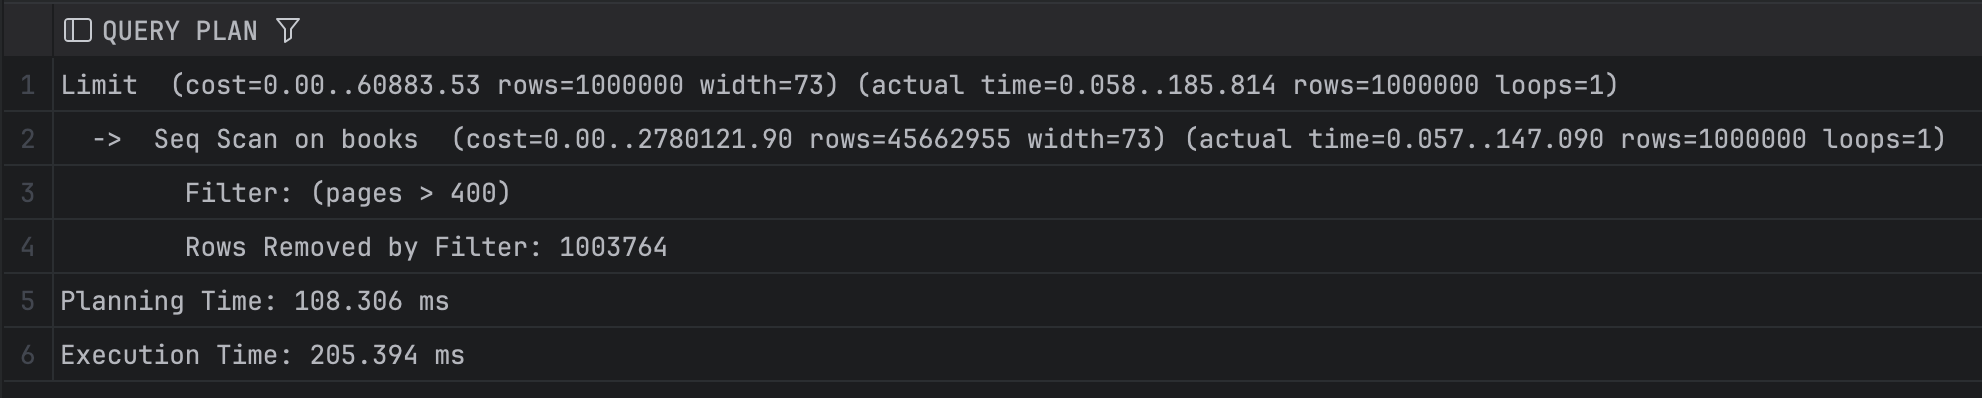
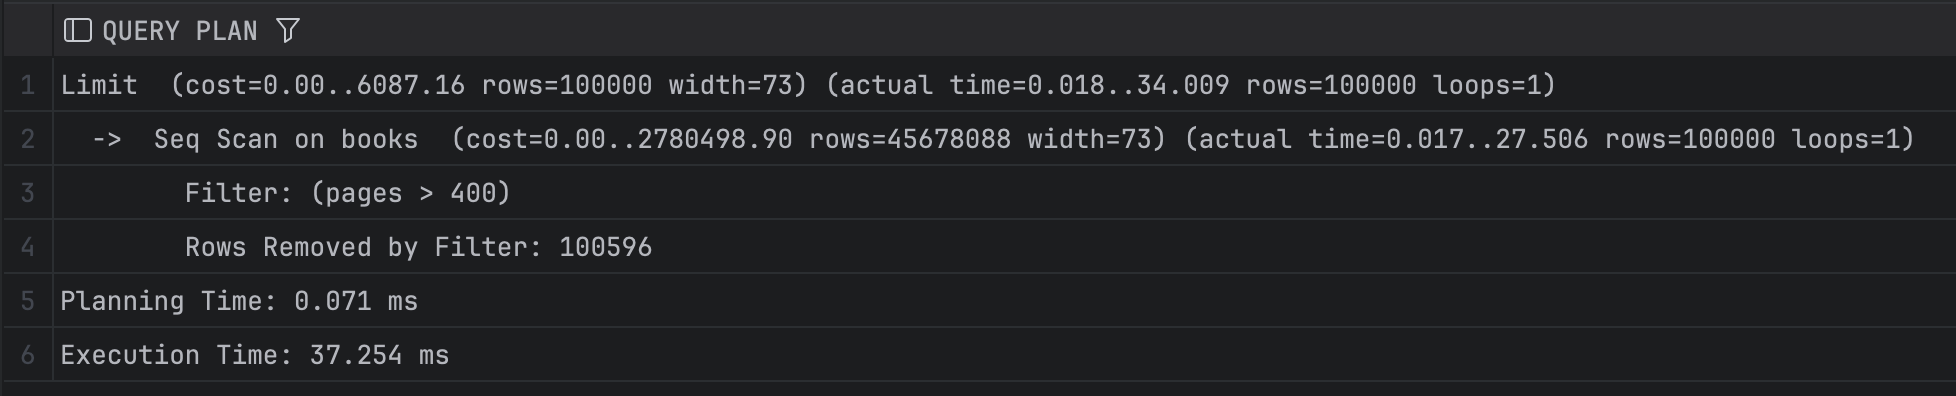
work

diff --git a/blog/postgres-indexing-1/index.md b/blog/postgres-indexing-1/index.md
@@ -196,31 +196,31 @@ It's the Index Cond. We're not actually ... _looking for_ anything. We just want
 
 Let's go deeper. Before we start, I'll point out that values for `pages` was filled with random values from 100-700. So there are 600 possible values for pages, each randomly assigned.
 
-Let's look at a query to read the titles of books with the 3 maximum values for pages, and limit our results to a million records
+Let's look at a query to read the titles of books with the 3 maximum values for pages. And let's pull a lot more results this time; we'll limit it to one hundred thousand entries
 
 ```sql
 explain analyze
 select title, pages
 from books
 where pages > 697
-limit 1000000;
+limit 100000;
 ```
 
 ![Index Seek and Read](/postgres-indexing-1/img6a-top-3-page-values.png)
 
-As before, we see a parallel sequential scan. We read through the table, looking for the first million rows, and since our query matches so few records, the database has to read through over 30 million rows before it finds the first million matching our condition
+As before, we see a parallel sequential scan. We read through the table, looking for the first 100,000 rows. Our condition matches very few results, so the database has to discard through over 6 million records before it finds the first 100,000 matching our condition
 
 ```
-   Rows Removed by Filter: 30194406
+   Rows Removed by Filter: 6627303
 ```
 
-Ok, let's define an index on `pages`.
+Let's define an index on `pages`
 
 ```sql
 CREATE INDEX idx_pages ON books(pages);
 ```
 
-You might wonder about the fact that the pages column is by no means unique; but that doesn't effect anything: the leaf pages can easily contain duplicate entries.
+You might notice that the pages column is by no means unique; but that doesn't effect anything: the leaf pages can easily contain duplicate entries.
 
 ![Pages index](/postgres-indexing-1/img7-pages-index.png)
 
@@ -233,36 +233,44 @@ explain analyze
 select title, pages
 from books
 where pages > 697
-limit 1000000;
+limit 100000;
 ```
 
 ![Pages > 697](/postgres-indexing-1/img9-index-pages-bitmap-scan.png)
 
 There's a lot going on. Our index is being used, but not like before
 
-```
-   ->  Bitmap Index Scan on idx_pages  (cost=0.00..4910.05 rows=450864 width=0) (actual time=31.521..31.521 rows=453891 loops=1)
+```bash
+   ->  Bitmap Index Scan on idx_pages  (cost=0.00..4911.16 rows=451013 width=0) (actual time=38.057..38.057 rows=453891 loops=1)
 ```
 
 Bitmap scan means that the database is scanning our database, and _noting_ the heap locations with records matching our filter. Remember, we need to access the heap to retrieve our title column, to satisfy our query.
 
-Then the db visits those addresses, and scoopes up the records therein. This is the Bitmap Heap Scan on line 5
+Then the db scans the whole heap, and pulls out _those_ addresses. This is the Bitmap Heap Scan on line 5
 
-```
-   ->  Parallel Bitmap Heap Scan on books  (cost=5022.76..1441525.29 rows=187860 width=73) (actual time=103.781..6691.040 rows=151297 loops=3)
+```bash
+   ->  Parallel Bitmap Heap Scan on books  (cost=5023.92..1441887.67 rows=187922 width=73) (actual time=41.383..1339.997 rows=33382 loops=3)
 ```
 
 But remember, this is the heap, and it's not ordered on pages, so those random locations may have _other_ records _not_ matching our filter. This is done in the Index Recheck on line 6
 
-```
+```bash
    Recheck Cond: (pages > 697)
 ```
 
-which removed a whopping _6 million_ results.
+which removed 697 results.
 
-What's especially egrigious here is that this was _slower_ than a regular table scan from before. Adding an index made this query run _slow_.
+Why is Postgres doing this, rather than just walking our index, and following the pointers to the heap, as before?
 
-Was I forcing the issue with the enormous limit of 1 million? Of course. The point isn't to write realistic or even useful queries, here; my goal is to clearly how indexes work, how they can help, and occasionally, how they can lead the query optimizer to make the wrong choice, and hurt performance (I've seen that happen with non-contrived queries).
+Postgres keeps track of statistics on which values are contained in its various columns. In this case, it knew that _relatively_ few values would match on this filter, so it chose to use this index.
+
+But that still doesn't answer why it didn't use a regular old index scan, following the various pointers to the heap. Here, Postgres decided that, even though the filter would exclude a large percentage of the table, it would need to read a _lot_ of pages from the heap, and following all those random pointers from the index to the heap would be bad. Those pointers point in all manner of random directions, and **Random I/O** is bad. Instead, Postgres thought it would be better to scan the whole heap, and only reading those pages the index determined would be useful. This would potentially enable it to fetch neighboring chunks of memory from the heap, rather than frequently following those random pointers from the index.
+
+Again, Random I/O tends to be **expensive** and can hurt query performance. This was not faulty reasoning at all.
+
+Unfortunately in this case, Postgres wagered wrong. Our query now runs in that this was _slower_ than the regular table scan from before, on the same query. It now takes 1.38 seconds, instead of 833ms. Adding an index made this query run _slower_.
+
+Was I forcing the issue with the larger limit of 100,000? Of course. My goal is to clearly how indexes work, how they can help, and occasionally, how they can lead the query optimizer to make the wrong choice, and hurt performance. Please don't think an index causing a worse, slower execution plan is an unhinged, unheard of eventuality which I contrived for this post; I've seen it happen on very normal queries on production databases.
 
 Before we move on, let's query all the books with an above-average number of pages
 
@@ -271,31 +279,28 @@ explain analyze
 select title, pages
 from books
 where pages > 400
-limit 1000000;
+limit 100000;
 ```
 
 ![Pages does not use index](/postgres-indexing-1/img10-pages-back-to-heap-scan.png)
 
 In this case Postgres was smart enough to not even bother with the index.
 
-Databases keep track of statistics of its various column values. In this case, Postgres realized this query would match against an _incredibly large_ number of results. Those results would have to all jump down into **random** locations in the heap, if read from the index. And again, **Random I/O** is **bad** for performance.
-
-So it decided to just read the main table match our condition of pages > 400. Since this matches so many results, it only took Postgres 200ms to finish.
+Postgres's statistics told it that this query would match an enormous number of reasons, and just walking across the heap would get it the right results more quickly than bothering with the index. And in this case it assumed correctly. The query ran in just 37ms.
 
 ## Covering Indexes
 
 Let's go back to this query
 
-````sql
 ```sql
 explain analyze
 select title, pages
 from books
 where pages > 697
-limit 1000000;
-````
+limit 100000;
+```
 
-It took a little over 3 seconds with no index, and over 6 seconds with an index on just pages.
+It took a little over 800ms with no index, and over 1.3 seconds with an index on just pages.
 
 Your first instinct might be to just add title to the index
 
@@ -305,40 +310,48 @@ CREATE INDEX idx_pages_title ON books(pages, title);
 
 Which would look like this
 
-![Pages and title index](/postgres-indexing-1/img10-pages-back-to-heap-scan.png)
+![Pages and title index](/postgres-indexing-1/img11-pages-title.png)
 
-This would work fine. We're not _needing_ to filter based on title, only pages. But having those titles there wouldn't hurt one bit. Postgres would just ignore it, and find the starting point for all books with > 400 pages.
+This would work fine. We're not _needing_ to filter based on title, only pages. But having those titles in those gold non-leaf nodes wouldn't hurt one bit. Postgres would just ignore it, and find the starting point for all books with > 400 pages, and start reading. There's be no need for heap access at all, since the titles are right there.
 
 Let's try it.
 
-```sql
-explain analyze
-select title, pages
-from books
-where pages > 697
-limit 1000000;
-```
-
 ![Pages and title index](/postgres-indexing-1/img12-top-3-page-values-fast.png)
 
-Our query, which was originally 3 seconds, which jumped to 6 seconds with an index poorly suited to the query, now runs in 102ms. And notice we have a new operator in our execution plan
+Our query now runs in just 102ms! And we have a new operation in our execution plan.
 
 ```bash
    ->  Index Only Scan using idx_pages_title on books  (cost=0.69..30393.42 rows=451013 width=73) (actual time=0.243..83.911 rows=453891 loops=1)
 ```
 
-Index Only Scan means ... that _only_ the index is being scanned. There's no need to look anything up in the heap.
+Index Only Scan means ... that _only_ the index is being scanned. Again, there's no need to look anything up in the heap, since the index has all that we need. That makes this a "covering index" for this query, since the index can "cover" it all.
 
-For the most part. Line 4
+More or less. Line 4
 
 ```bash
    Heap Fetches: 0
 ```
 
-is not as redundant as it might seem. Postgres does have to consult something called a visibility table to make sure the values in your index are up to date given how Postgres handles updates through it's MVCC system. But unless your data are changing extremely frequently this should not be a large burden.
+is not as redundant as it might seem. Postgres _does_ have to consult something called a visibility table to make sure the values in your index are up to date given how Postgres handles updates through it's MVCC system. But unless your data are changing extremely frequently this should not be a large burden.
 
 ## A variation on the theme
 
+If you're using Postgres or Microsoft SQL Server you can create an even nicer version of this index. Remember, we're not actually querying on title here, at all. We just put it in the index so the title values would be in the leaf nodes, so Postgres could read them, without having to visit the heap.
+
+Wouldn't it be nice it we could _only_ put those titles in the leaf nodes? This would keep our internal nodes smaller, with less content, which, in a real index, would let us cram more key values together, resulting in a smaller, shallower B Tree that would potentially be faster to query.
+
+We do this with the INCLUDE clause when creating our index.
+
+```sql
+CREATE INDEX idx_pages_include_title ON books(pages) INCLUDE(title);
+```
+
+This tell Postgres to create our index on the pages column, as before, but also _include_ the title field in the leaf nodes. It would look like this, conceptually.
+
 ![Pages with included title index](/postgres-indexing-1/img12-index-with-included.png)
 
+And re-running that same query, we see that it does indeed run a little bit faster. From a little over 100ms, down to just 80ms.
+
 ![Pages with included title index](/postgres-indexing-1/img13-query-with-included-col.png)
+
+It's not the kind of enormous improvement we've seen elsewhere, but I nice 20% speedup isn't something to turn down if you're using a database that supports this (MySQL does not).
